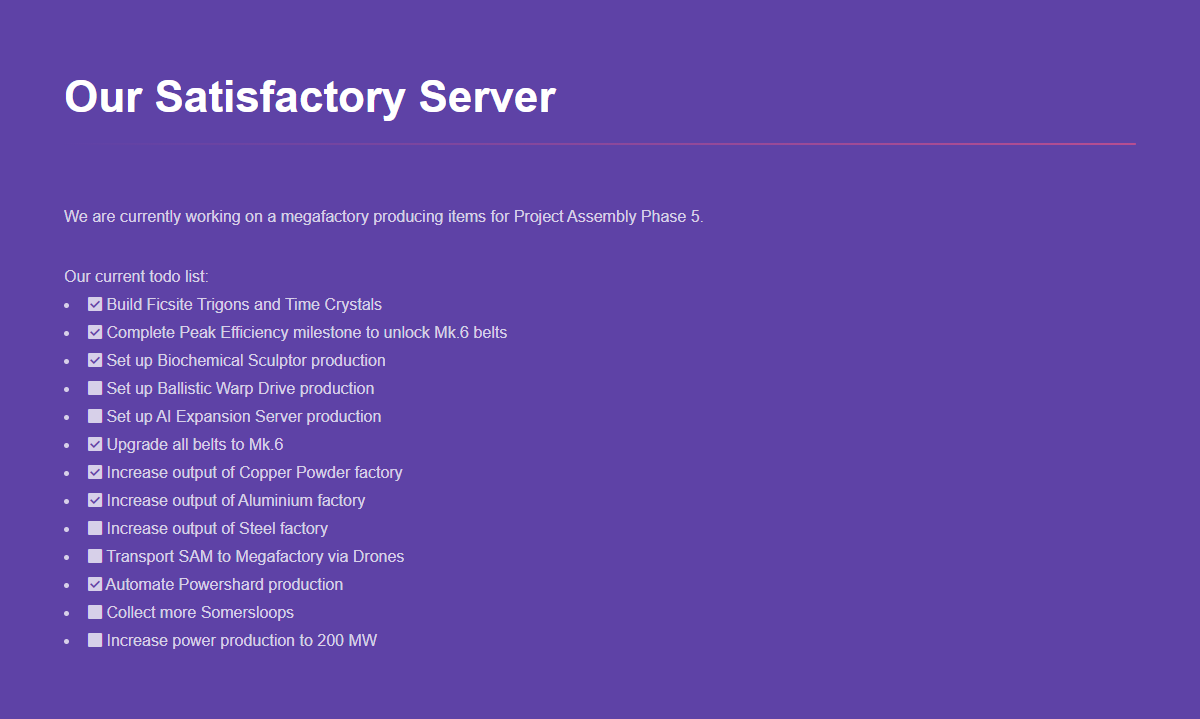
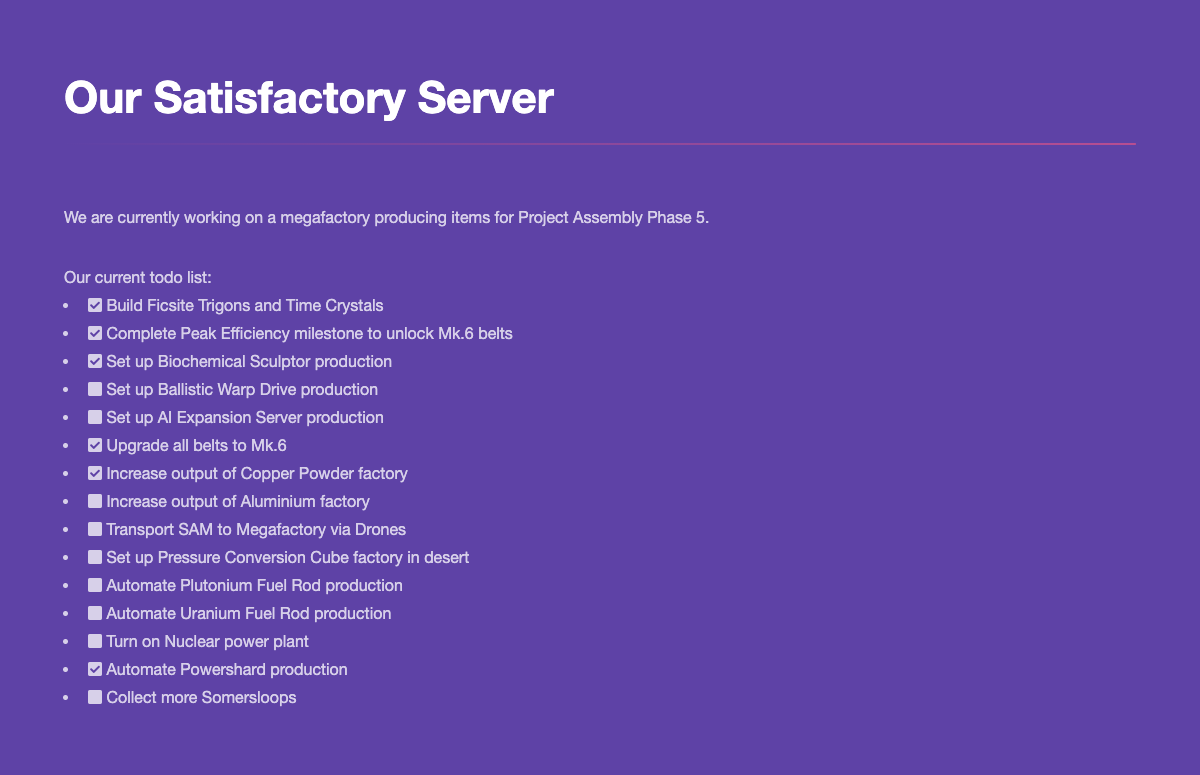
Add pressure cubes and nuclear factories

Changed region(s): [[0.0617, 0.3366, 0.4317, 0.9179], [0.0308, 0.0918, 0.9558, 0.2142], [0.0308, 0.2754, 0.5858, 0.306]]

diff --git a/website/index.html b/website/index.html
@@ -35,12 +35,14 @@
             <li><i class="fas fa-square"></i> Set up AI Expansion Server production</li>
             <li><i class="fas fa-check-square"></i> Upgrade all belts to Mk.6</li>
             <li><i class="fas fa-check-square"></i> Increase output of Copper Powder factory</li>
-            <li><i class="fas fa-check-square"></i> Increase output of Aluminium factory</li>
-            <li><i class="fas fa-square"></i> Increase output of Steel factory</li>
+            <li><i class="fas fa-square"></i> Increase output of Aluminium factory</li>
             <li><i class="fas fa-square"></i> Transport SAM to Megafactory via Drones</li>
+            <li><i class="fas fa-square"></i> Set up Pressure Conversion Cube factory in desert</li>
+            <li><i class="fas fa-square"></i> Automate Plutonium Fuel Rod production</li>
+            <li><i class="fas fa-square"></i> Automate Uranium Fuel Rod production</li>
+            <li><i class="fas fa-square"></i> Turn on Nuclear power plant</li>
             <li><i class="fas fa-check-square"></i> Automate Powershard production</li>
             <li><i class="fas fa-square"></i> Collect more Somersloops</li>
-            <li><i class="fas fa-square"></i> Increase power production to 200 MW</li>
           </ul>
         </div>
       </section>
@@ -68,6 +70,14 @@
           <div class="image fit" id="ballistic-warp-drive">
             <h3>Ballistic Warp Drive <a href="#ballistic-warp-drive"><i class="fas fa-link"></i></a></h3>
             <img src="/images/bwd.png" alt="Ballistic Warp Drive factory" />
+          </div>
+          <div class="image fit" id="desert-pressure-cubes">
+            <h3>Desert Pressure Cubes <a href="#desert-pressure-cubes"><i class="fas fa-link"></i></a></h3>
+            <img src="/images/desert-pressure-cubes.png" alt="Desert Pressure Cubes factory" />
+          </div>
+          <div class="image fit" id="nuclear">
+            <h3>Nuclear <a href="#nuclear"><i class="fas fa-link"></i></a></h3>
+            <img src="/images/nuclear.png" alt="Nuclear factory" />
           </div>
 
         </div>
